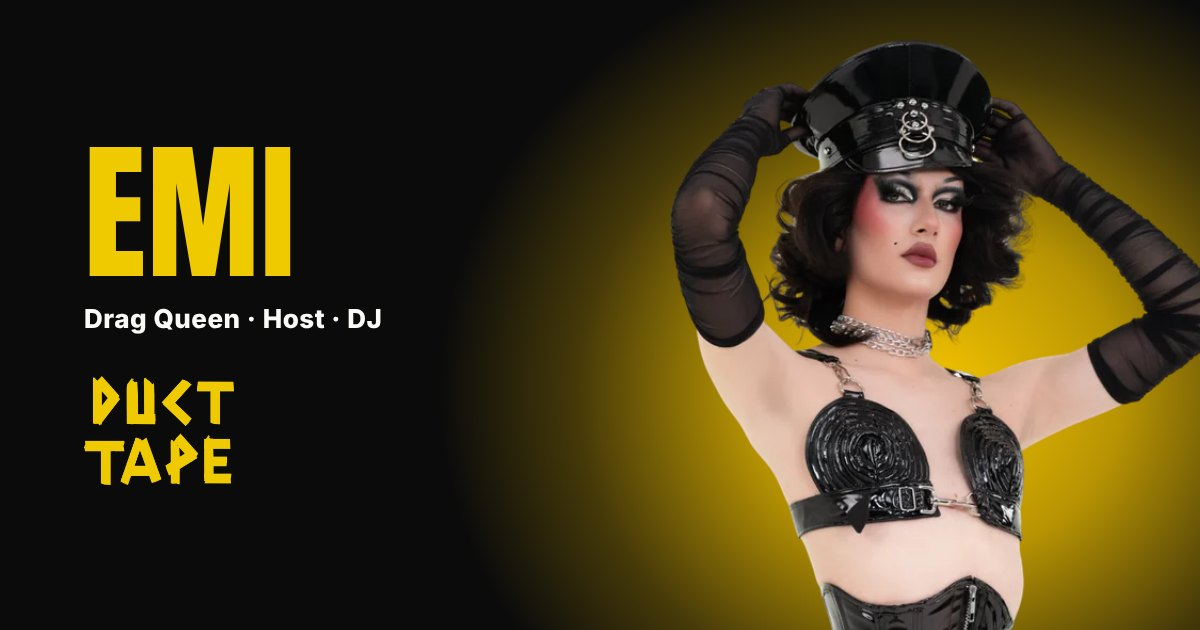
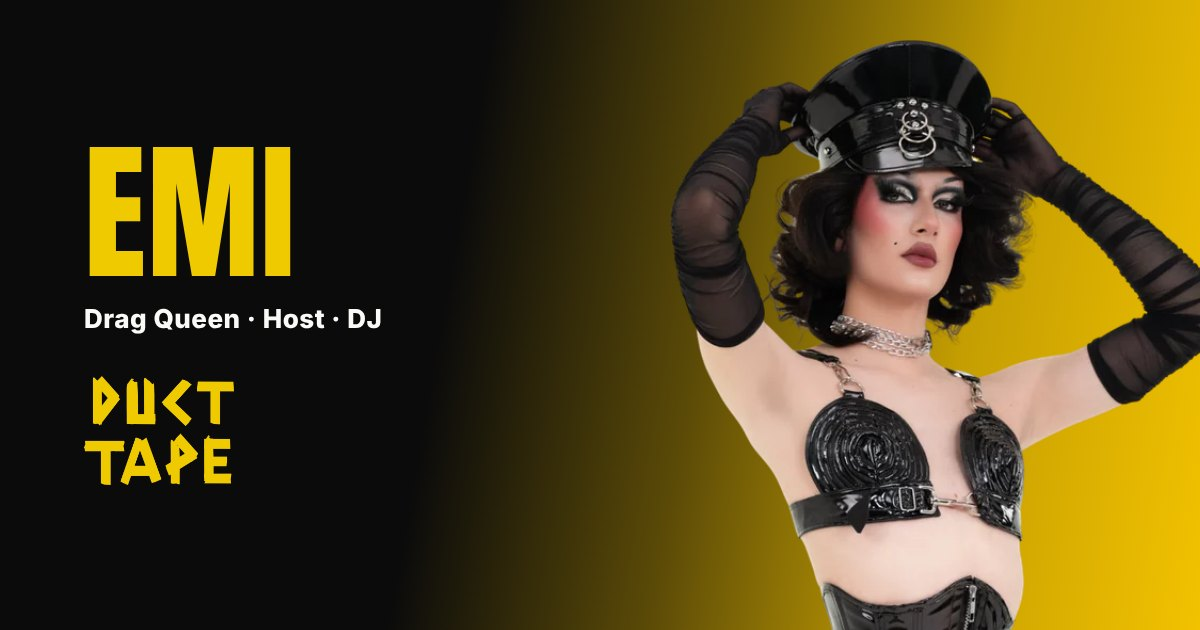
Profil-Vorschaubilder: linearer gelber Verlauf statt Kreis
Claude-Session: https://claude.ai/code/session_011roMvz3bhBK9sX119UmQVK

diff --git a/en/magda-von-pfeffer.html b/en/magda-von-pfeffer.html
@@ -15,7 +15,7 @@
   <meta property="og:title" content="Magda von Pfeffer – Book a drag queen for cabaret and travesty in Berlin | DUCT TAPE">
   <meta property="og:description" content="Magda von Pfeffer is a drag queen from Berlin for travesty, cabaret, chanson and comedy. Available to book for live vocals, cabaret shows, hosting and events.">
   <meta property="og:url" content="https://ducttape.berlin/en/magda-von-pfeffer">
-  <meta property="og:image" content="https://ducttape.berlin/assets/img/share-magda-von-pfeffer.jpg?v=3">
+  <meta property="og:image" content="https://ducttape.berlin/assets/img/share-magda-von-pfeffer.jpg?v=4">
   <meta property="og:image:width" content="1200">
   <meta property="og:image:height" content="630">
   <meta name="twitter:card" content="summary_large_image">

diff --git a/magda-von-pfeffer.html b/magda-von-pfeffer.html
@@ -15,7 +15,7 @@
   <meta property="og:title" content="Magda von Pfeffer – Drag Queen für Travestie und Cabaret in Berlin buchen | DUCT TAPE">
   <meta property="og:description" content="Magda von Pfeffer ist Drag Queen aus Berlin für Travestie, Cabaret, Chanson und Comedy. Buchbar für Live-Gesang, Cabaret-Shows, Moderation und Events.">
   <meta property="og:url" content="https://ducttape.berlin/magda-von-pfeffer">
-  <meta property="og:image" content="https://ducttape.berlin/assets/img/share-magda-von-pfeffer.jpg?v=3">
+  <meta property="og:image" content="https://ducttape.berlin/assets/img/share-magda-von-pfeffer.jpg?v=4">
   <meta property="og:image:width" content="1200">
   <meta property="og:image:height" content="630">
   <meta name="twitter:card" content="summary_large_image">

diff --git a/symba.html b/symba.html
@@ -15,7 +15,7 @@
   <meta property="og:title" content="Symba – Drag Queen, Performerin und Tänzerin aus Berlin buchen | DUCT TAPE">
   <meta property="og:description" content="Symba ist Drag Queen, Performerin und Tänzerin aus Berlin, bekannt für selbst gemachte Outfits, Perücken und Showgirl-Glamour. Buchbar für Performances, Shows, Shootings und Events.">
   <meta property="og:url" content="https://ducttape.berlin/symba">
-  <meta property="og:image" content="https://ducttape.berlin/assets/img/share-symba.jpg?v=3">
+  <meta property="og:image" content="https://ducttape.berlin/assets/img/share-symba.jpg?v=4">
   <meta property="og:image:width" content="1200">
   <meta property="og:image:height" content="630">
   <meta name="twitter:card" content="summary_large_image">

diff --git a/en/symba.html b/en/symba.html
@@ -15,7 +15,7 @@
   <meta property="og:title" content="Symba – Book a drag queen performer and dancer in Berlin | DUCT TAPE">
   <meta property="og:description" content="Symba is a drag queen, performer and dancer from Berlin, known for handmade outfits, wigs and showgirl glamour. Available to book for performances, shows, shoots and events.">
   <meta property="og:url" content="https://ducttape.berlin/en/symba">
-  <meta property="og:image" content="https://ducttape.berlin/assets/img/share-symba.jpg?v=3">
+  <meta property="og:image" content="https://ducttape.berlin/assets/img/share-symba.jpg?v=4">
   <meta property="og:image:width" content="1200">
   <meta property="og:image:height" content="630">
   <meta name="twitter:card" content="summary_large_image">

diff --git a/en/emi.html b/en/emi.html
@@ -15,7 +15,7 @@
   <meta property="og:title" content="EMI – Book a drag queen host and DJ in Berlin | DUCT TAPE">
   <meta property="og:description" content="EMI is a drag queen, host and DJ from Berlin and part of the drag collective DUCT TAPE. Available to book as a drag host for events, shows, drag bingo and drag brunch, and as a drag DJ.">
   <meta property="og:url" content="https://ducttape.berlin/en/emi">
-  <meta property="og:image" content="https://ducttape.berlin/assets/img/share-emi.jpg?v=3">
+  <meta property="og:image" content="https://ducttape.berlin/assets/img/share-emi.jpg?v=4">
   <meta property="og:image:width" content="1200">
   <meta property="og:image:height" content="630">
   <meta name="twitter:card" content="summary_large_image">

diff --git a/emi.html b/emi.html
@@ -15,7 +15,7 @@
   <meta property="og:title" content="EMI – Drag Queen, Moderatorin und DJ aus Berlin buchen | DUCT TAPE">
   <meta property="og:description" content="EMI ist Drag Queen, Moderatorin und DJ aus Berlin, Teil des Drag-Kollektivs DUCT TAPE. Buchbar als Drag-Host für Events, Shows, Drag Bingo und Drag Brunch sowie als Drag-DJ.">
   <meta property="og:url" content="https://ducttape.berlin/emi">
-  <meta property="og:image" content="https://ducttape.berlin/assets/img/share-emi.jpg?v=3">
+  <meta property="og:image" content="https://ducttape.berlin/assets/img/share-emi.jpg?v=4">
   <meta property="og:image:width" content="1200">
   <meta property="og:image:height" content="630">
   <meta name="twitter:card" content="summary_large_image">
